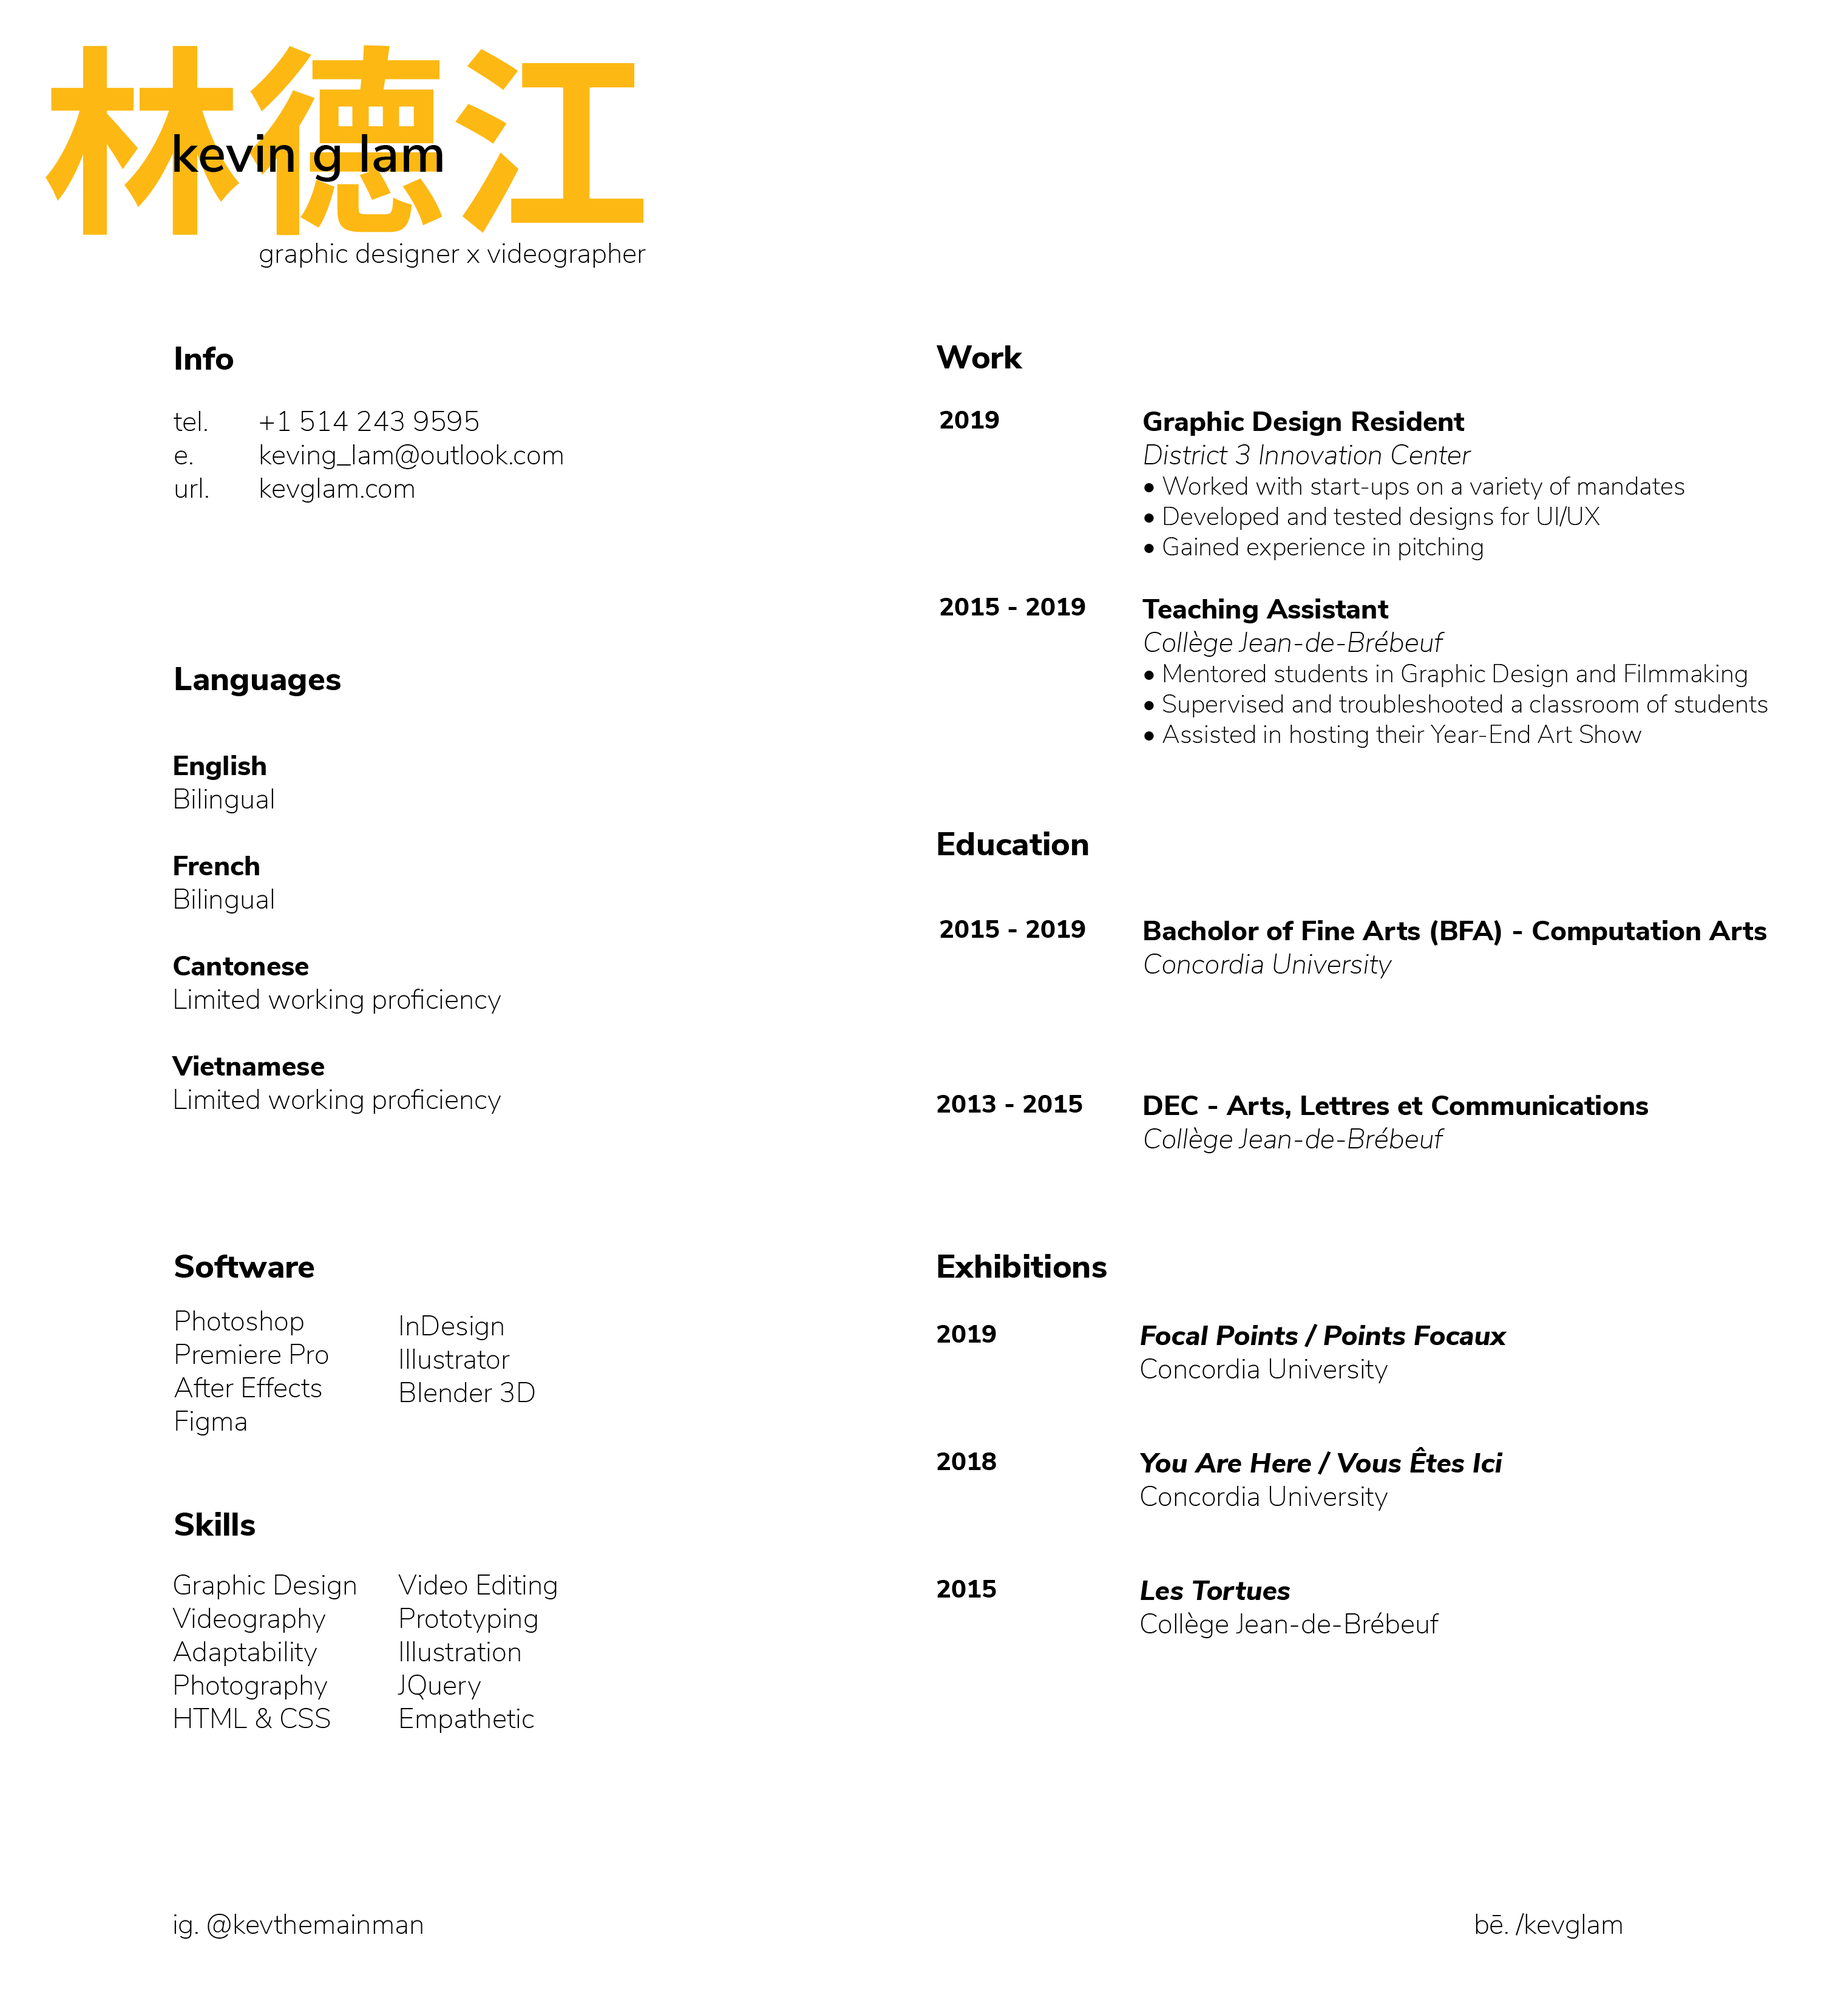
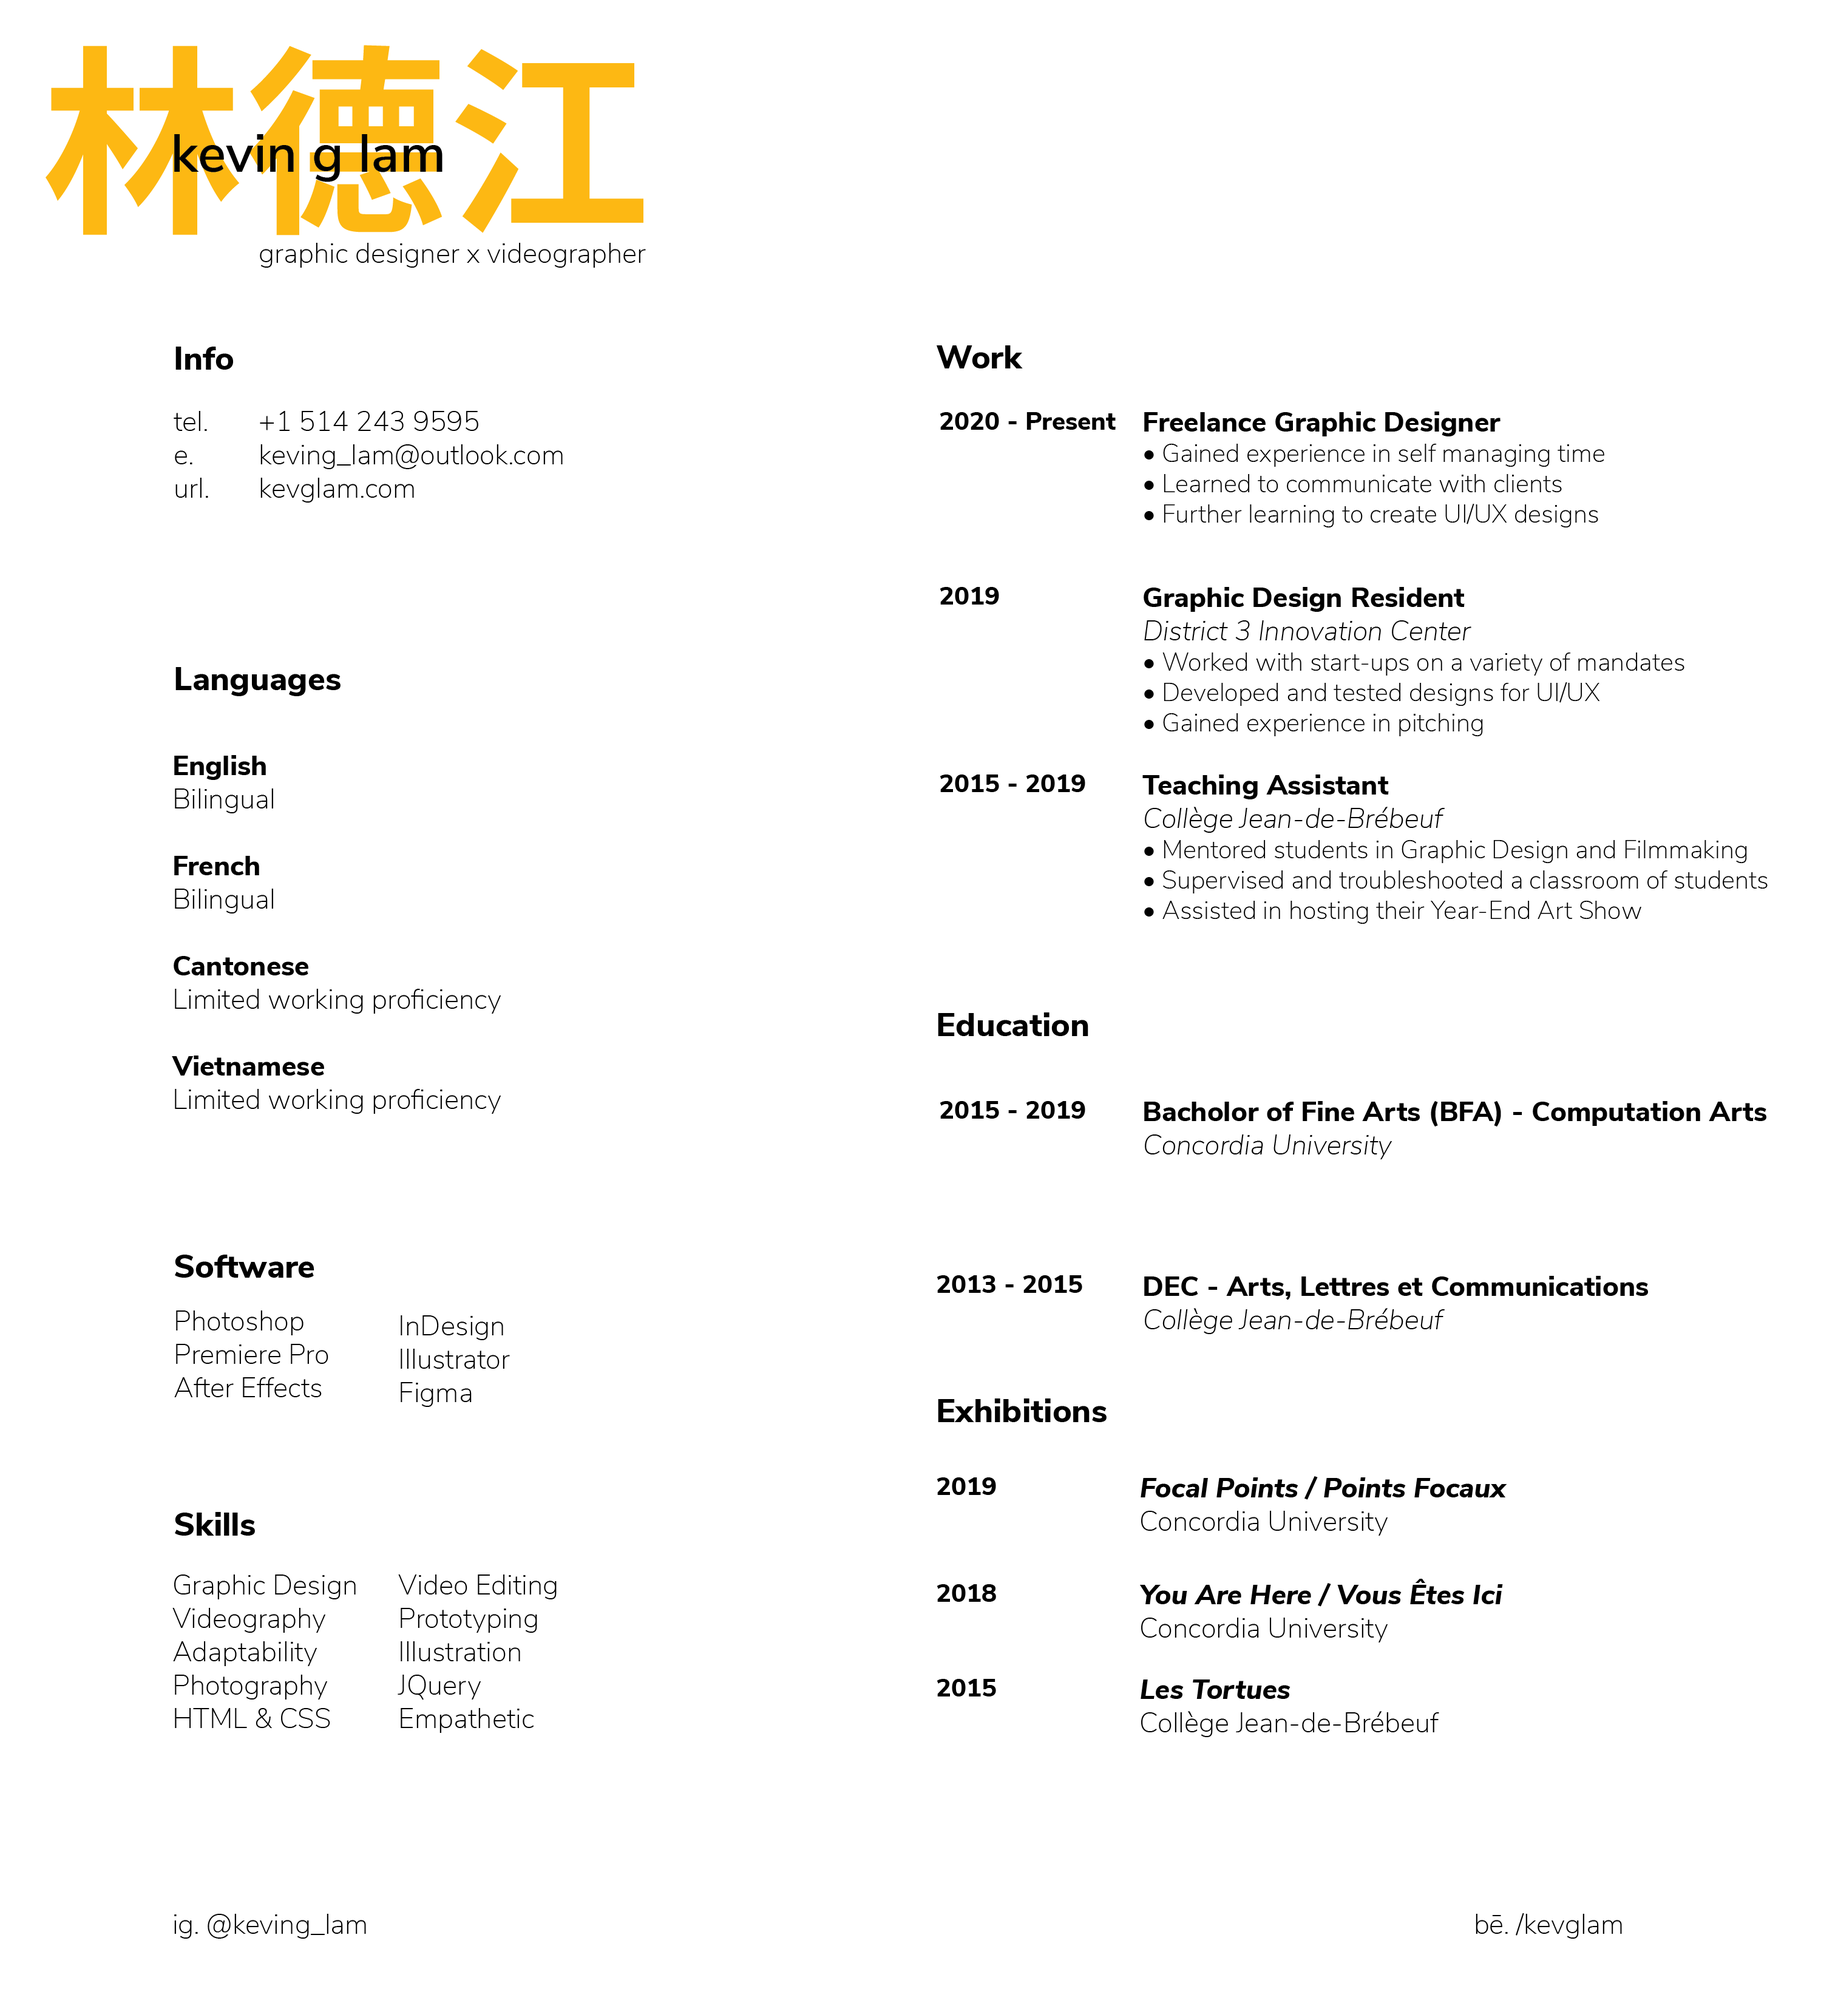
Updated Instagram name + CV
Updated Instagram name + CV

diff --git a/contact.html b/contact.html
@@ -10,7 +10,7 @@
     <link rel="stylesheet" type="text/css" href="css/styles2.css" />
 
     <!-- Libraries -->
-    
+
 
     <!-- My script(s) -->
     <script src="js/script.js"></script>
@@ -44,7 +44,7 @@
 
 <footer>
   <div class="footer-left">
-    <span>ig. @kevthemainman</span>
+    <span>ig. @keving_lam</span>
     <span>bē. /kevglam</span>
   </div>
   <div class="footer-right">

diff --git a/palettica.html b/palettica.html
@@ -117,7 +117,7 @@ The idea behind the colored gradient borders is to have it cycle and change depe
 
   <footer>
     <div class="footer-left">
-      <span>ig. @kevthemainman</span>
+      <span>ig. @keving_lam</span>
       <span>bē. /kevglam</span>
     </div>
     <div class="footer-right">

diff --git a/mountain.html b/mountain.html
@@ -83,7 +83,7 @@ Mountain consists of a series of seven 13x19 Posters and seven 6x6 Topographic M
 
   <footer>
     <div class="footer-left">
-      <span>ig. @kevthemainman</span>
+      <span>ig. @keving_lam</span>
       <span>bē. /kevglam</span>
     </div>
     <div class="footer-right">

diff --git a/index2.html b/index2.html
@@ -81,7 +81,7 @@ I am Asian Canadian (好嘢! Yay!) and growing up in such an amazing melting pot
   <footer>
 <footer>
   <div class="footer-left">
-    <span>ig. @kevthemainman</span>
+    <span>ig. @keving_lam</span>
     <span>bē. /kevglam</span>
   </div>
   <div class="footer-right">

diff --git a/dcart.html b/dcart.html
@@ -159,7 +159,7 @@ For the second concept, I wanted to dive more into the same train of thought as 
 
   <footer>
   <div class="footer-left">
-    <span>ig. @kevthemainman</span>
+    <span>ig. @keving_lam</span>
     <span>bē. /kevglam</span>
   </div>
   <div class="footer-right">

diff --git a/about.html b/about.html
@@ -100,7 +100,7 @@ I am Asian Canadian and growing up in such an amazing melting pot of culture def
 
 <footer>
   <div class="footer-left">
-    <span>ig. @kevthemainman</span>
+    <span>ig. @keving_lam</span>
     <span>bē. /kevglam</span>
   </div>
   <div class="footer-right">

diff --git a/interlude.html b/interlude.html
@@ -191,7 +191,7 @@ when put together. <p> </p>
 
   <footer>
     <div class="footer-left">
-      <span>ig. @kevthemainman</span>
+      <span>ig. @keving_lam</span>
       <span>bē. /kevglam</span>
     </div>
     <div class="footer-right">

diff --git a/heritage2.html b/heritage2.html
@@ -103,7 +103,7 @@
 
     <footer>
       <div class="footer-left">
-        <span>ig. @kevthemainman</span>
+        <span>ig. @keving_lam</span>
         <span>bē. /kevglam</span>
       </div>
       <div class="footer-right">

diff --git a/heritage3.html b/heritage3.html
@@ -139,7 +139,7 @@
 
   <footer>
     <div class="footer-left">
-      <span>ig. @kevthemainman</span>
+      <span>ig. @keving_lam</span>
       <span>bē. /kevglam</span>
     </div>
     <div class="footer-right">

diff --git a/cv.html b/cv.html
@@ -47,7 +47,7 @@
 
   <footer>
   <div class="footer-left">
-    <span>ig. @kevthemainman</span>
+    <span>ig. @keving_lam</span>
     <span>bē. /kevglam</span>
   </div>
   <div class="footer-right">

diff --git a/heritage1.html b/heritage1.html
@@ -112,7 +112,7 @@
 
 <footer>
   <div class="footer-left">
-    <span>ig. @kevthemainman</span>
+    <span>ig. @keving_lam</span>
     <span>bē. /kevglam</span>
   </div>
   <div class="footer-right">

diff --git a/index.html b/index.html
@@ -119,7 +119,7 @@
   </body>
   <footer>
     <div class="footer-left">
-      <span>ig. @kevthemainman</span>
+      <span>ig. @keving_lam</span>
 
       <span>bē. /kevglam</span>
     </div>
